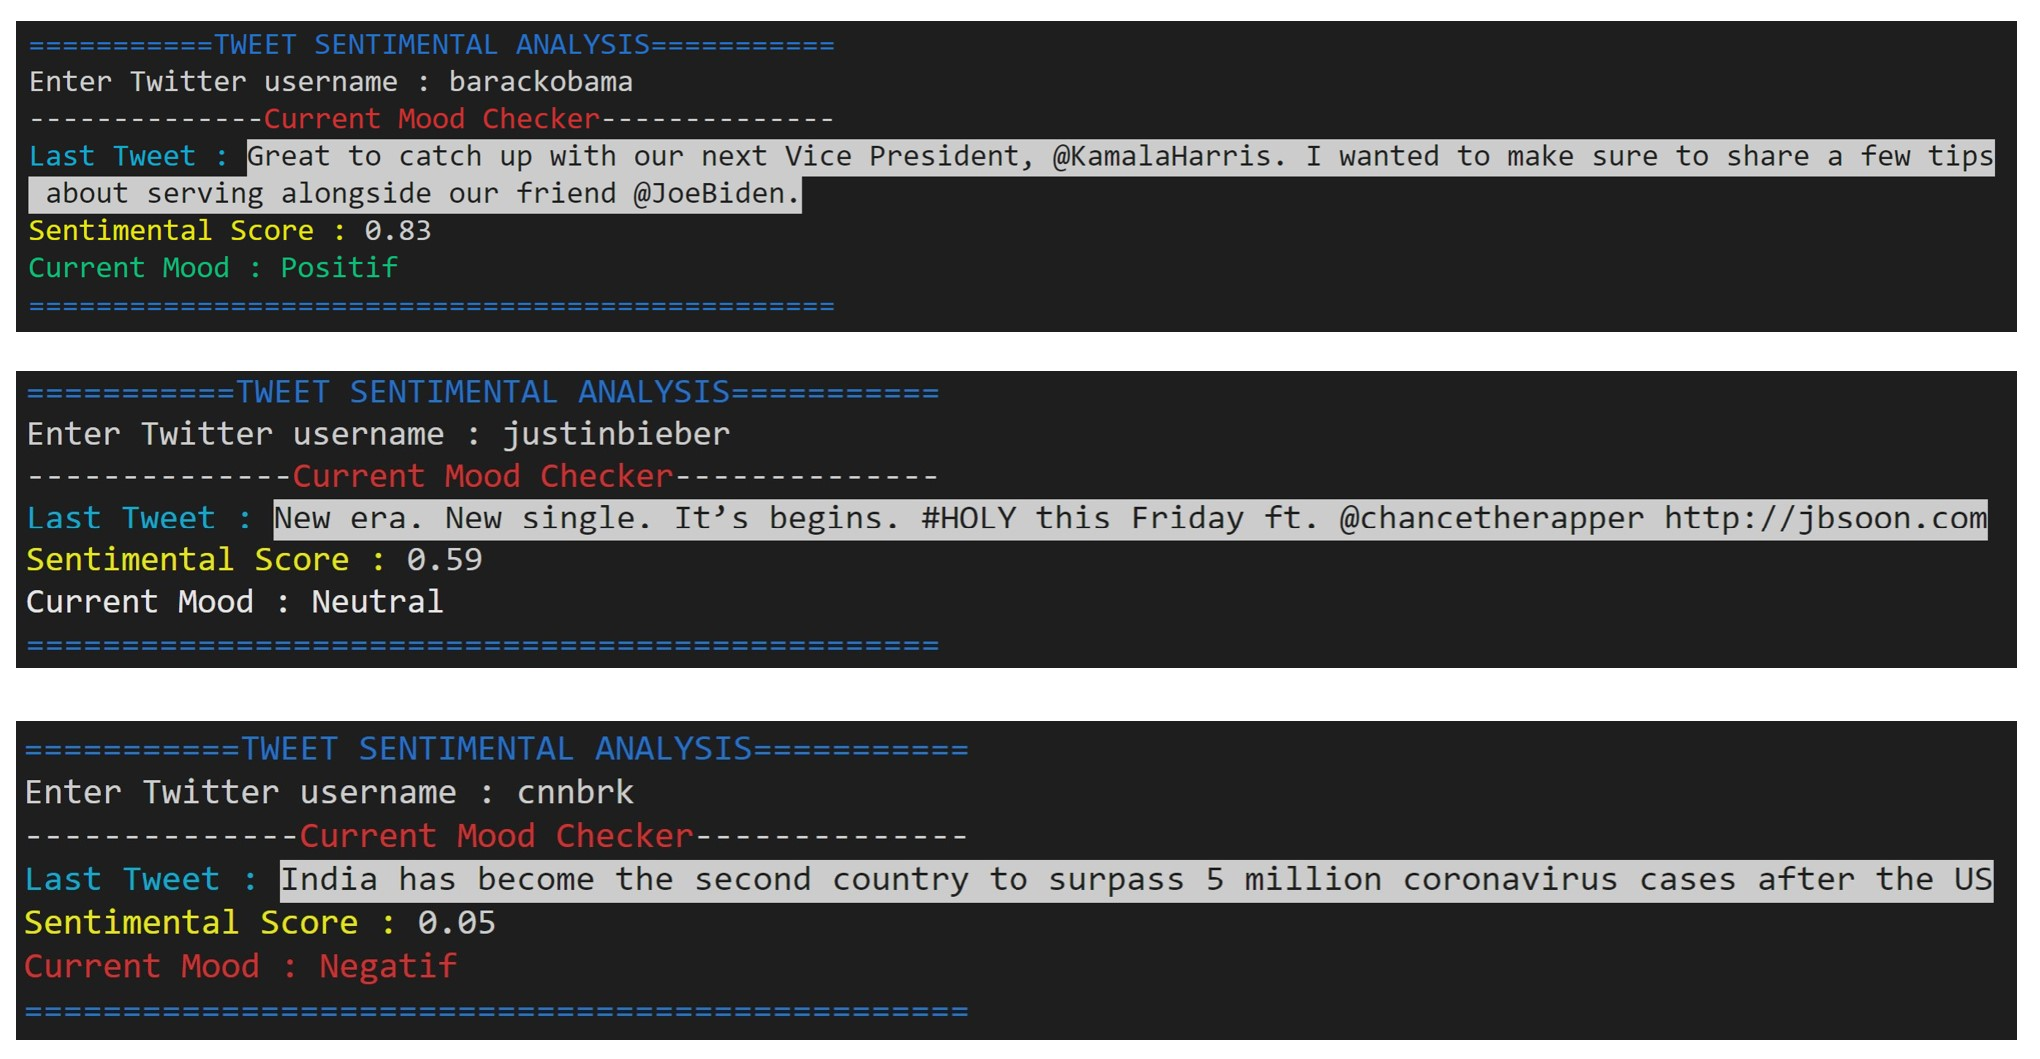
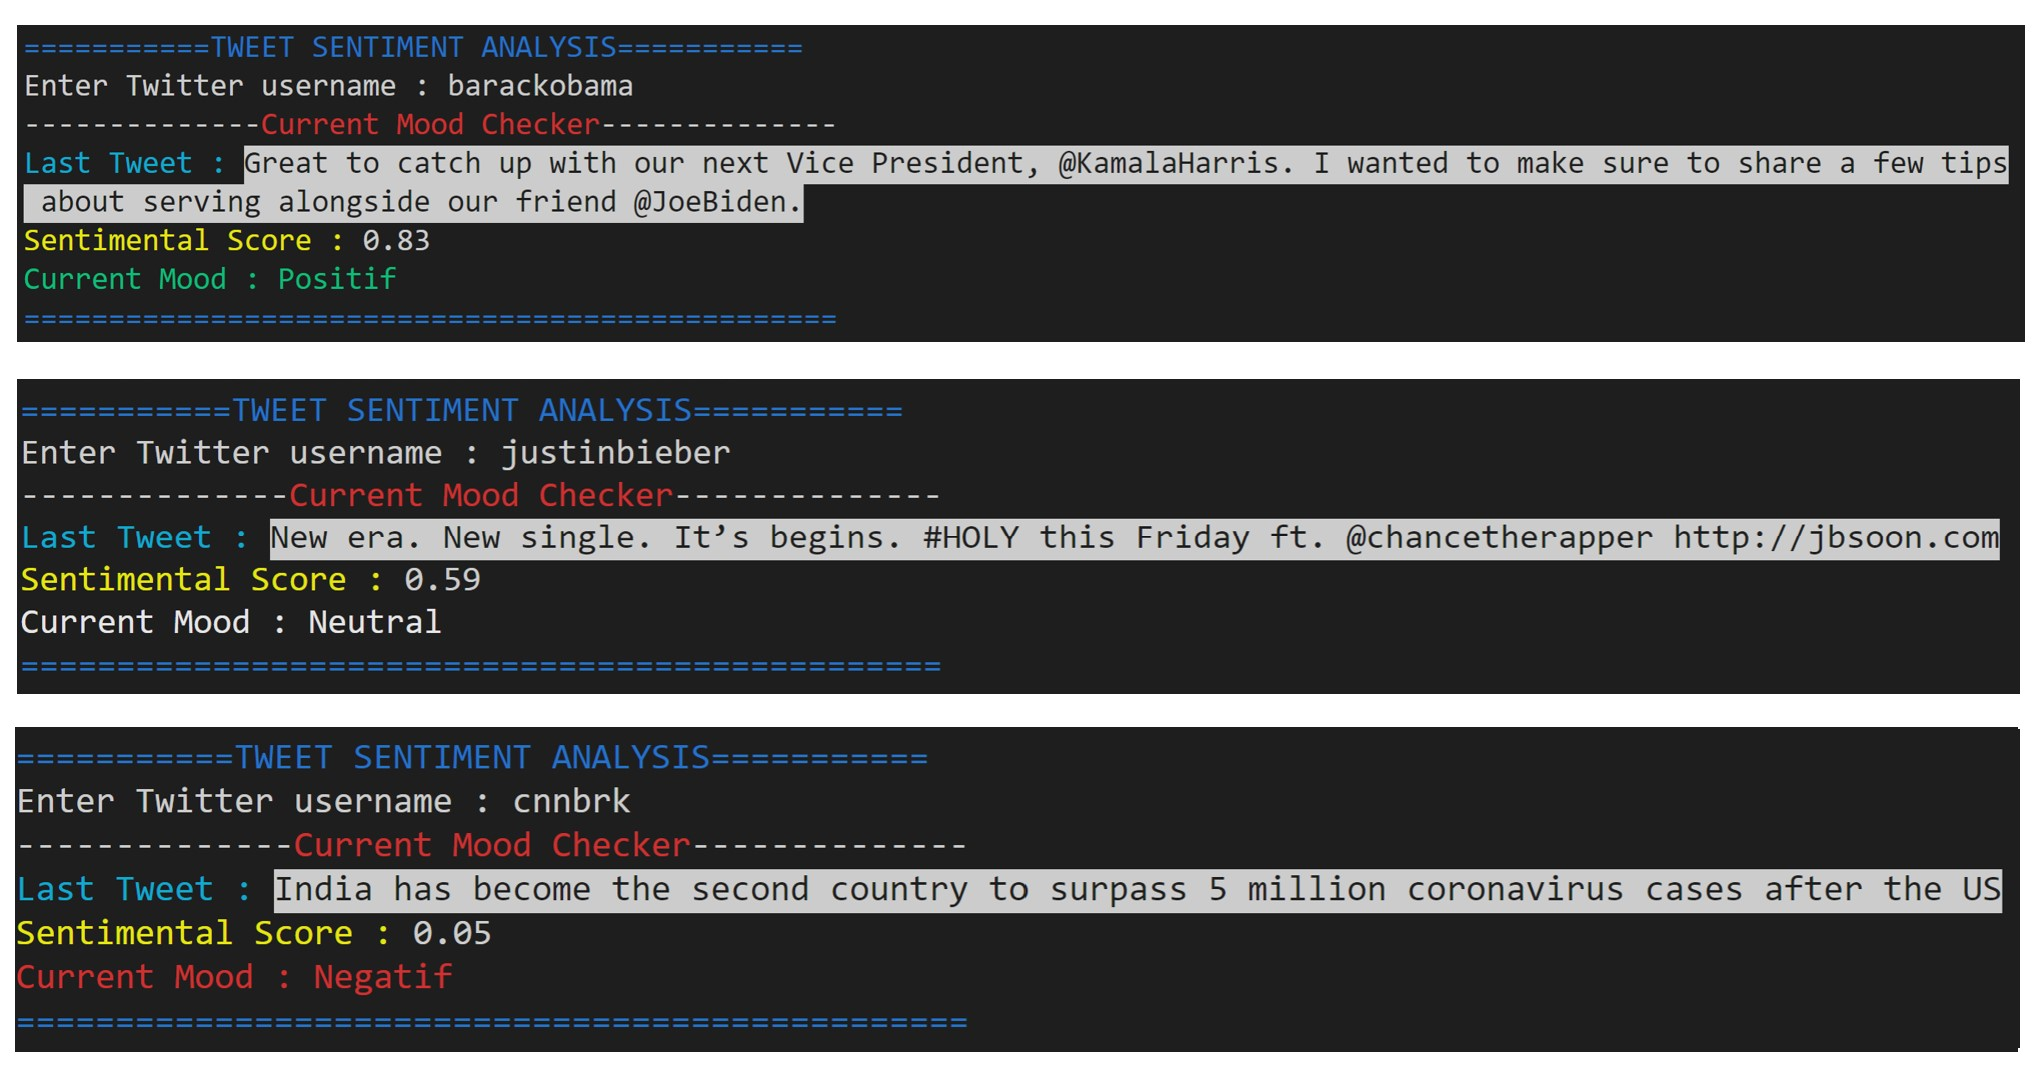
Twitter Sentiment Analysis Final

Changed region(s): [[0.0, 0.0, 1.0, 0.9972]]

diff --git a/main.py b/main.py
@@ -35,7 +35,7 @@ def tweet_sentimental_analysis(username='realDonaldTrump'):
 if __name__ == '__main__':
     
     print()
-    print(colored('===========TWEET SENTIMENTAL ANALYSIS===========', 'blue'))
+    print(colored('===========TWEET SENTIMENT ANALYSIS===========', 'blue'))
     username = input('Enter Twitter username : ')
     print('--------------' + colored('Current Mood Checker', 'red') + '--------------')
     tweet_sentimental_analysis(username)

diff --git a/get_tweet.py b/get_tweet.py
@@ -22,7 +22,7 @@ def scrapping_twitter(username='realDonaldTrump'):
     for t in range(len(tweets)):
         try:
             if len(tweets[t].text)!=0:
-                tweet = got.manager.TweetManager.getTweets(tweetCriteria)[t]
+                tweet = got.manager.TweetManager.getTweets(tweetCriteria)[t+2]
                 return tweet.text
             else:
                 continue
